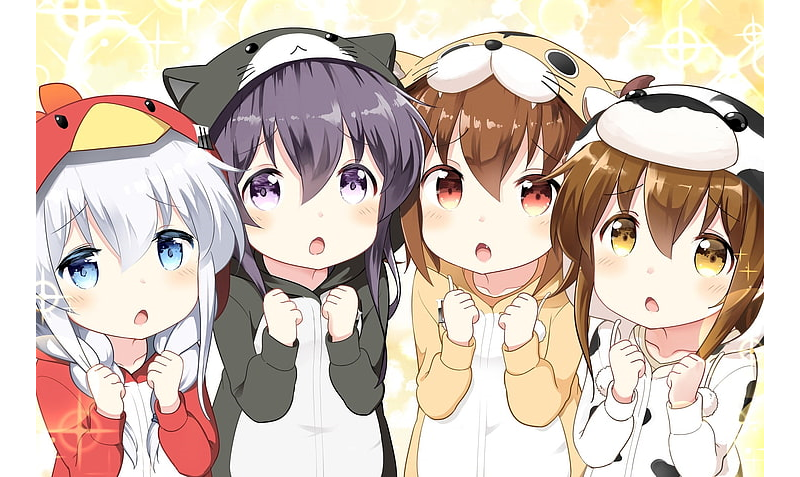
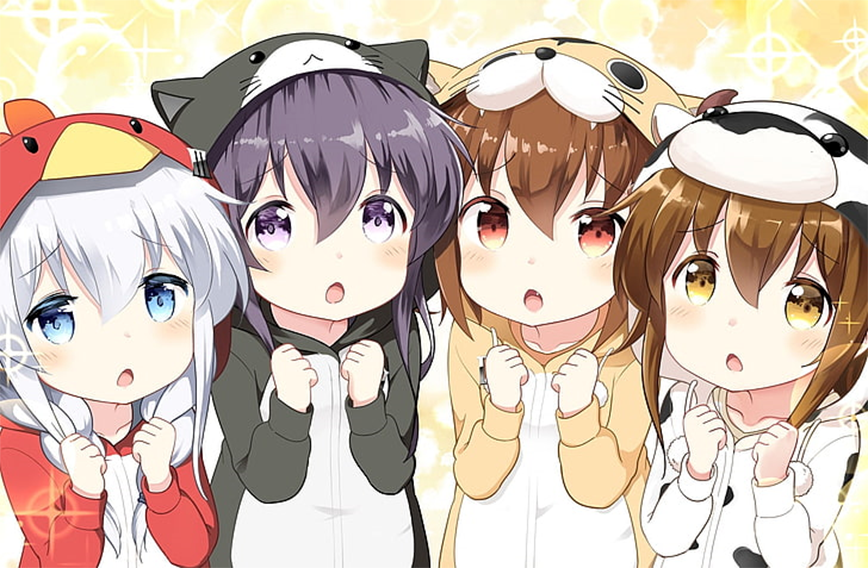
samurai img

diff --git a/README.md b/README.md
@@ -1,6 +1,6 @@
 # learn-assembly
 
-![image](img/try.png)
+![image](img/samurai.png)
 
 ### learn assembly
 Why i want to learn assembly or why is needed for assembly language :
